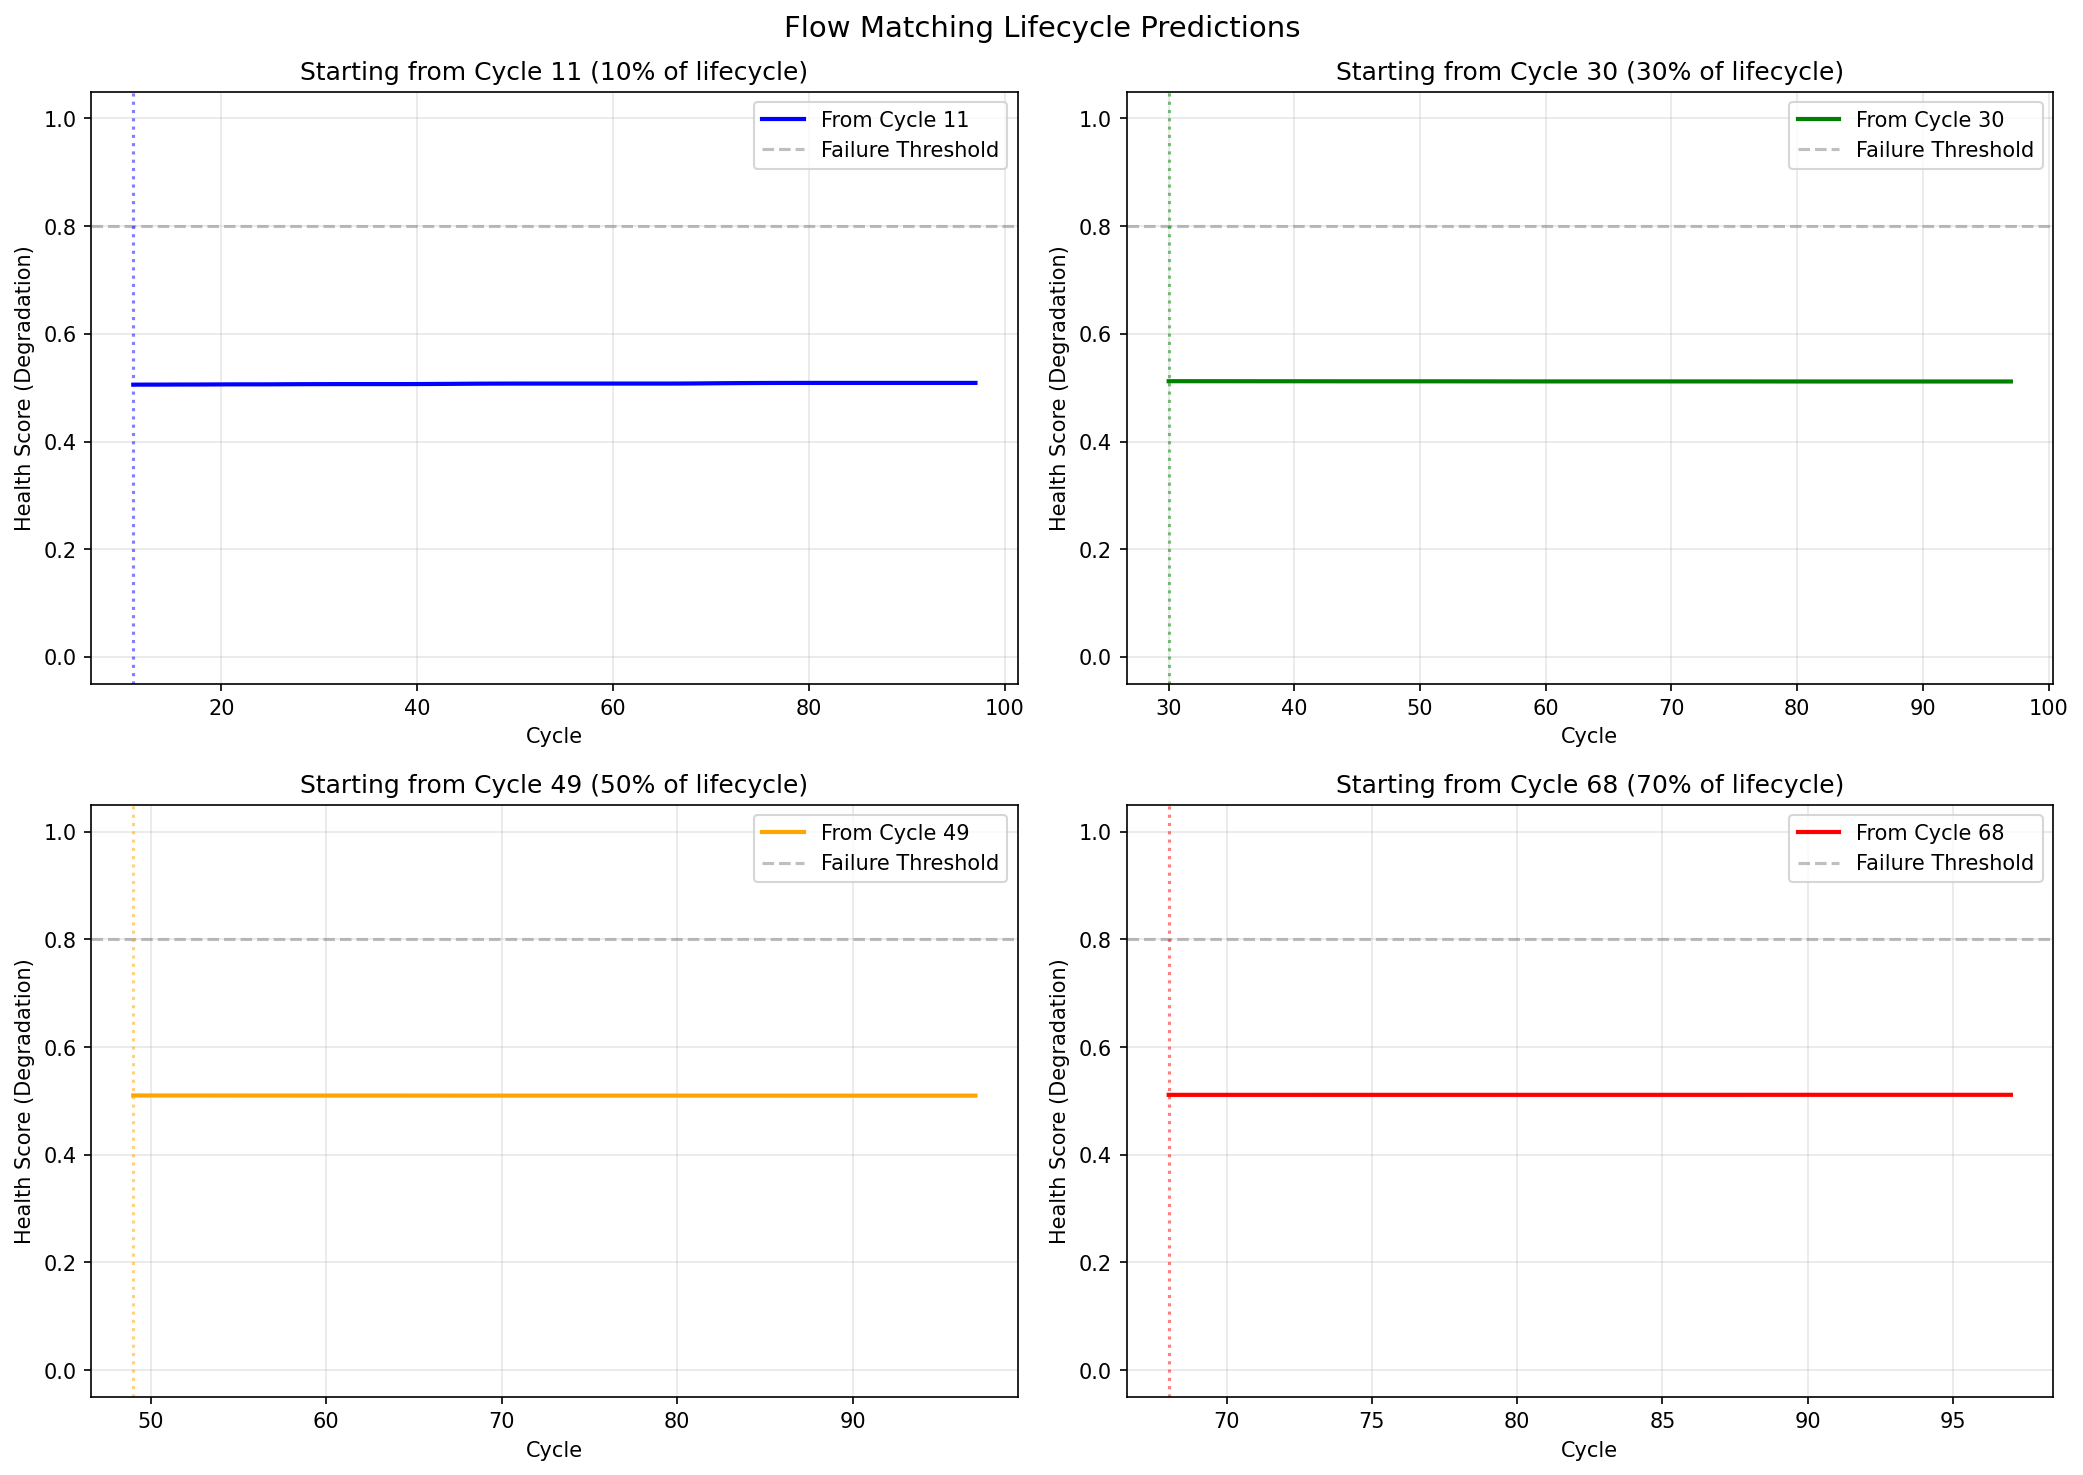
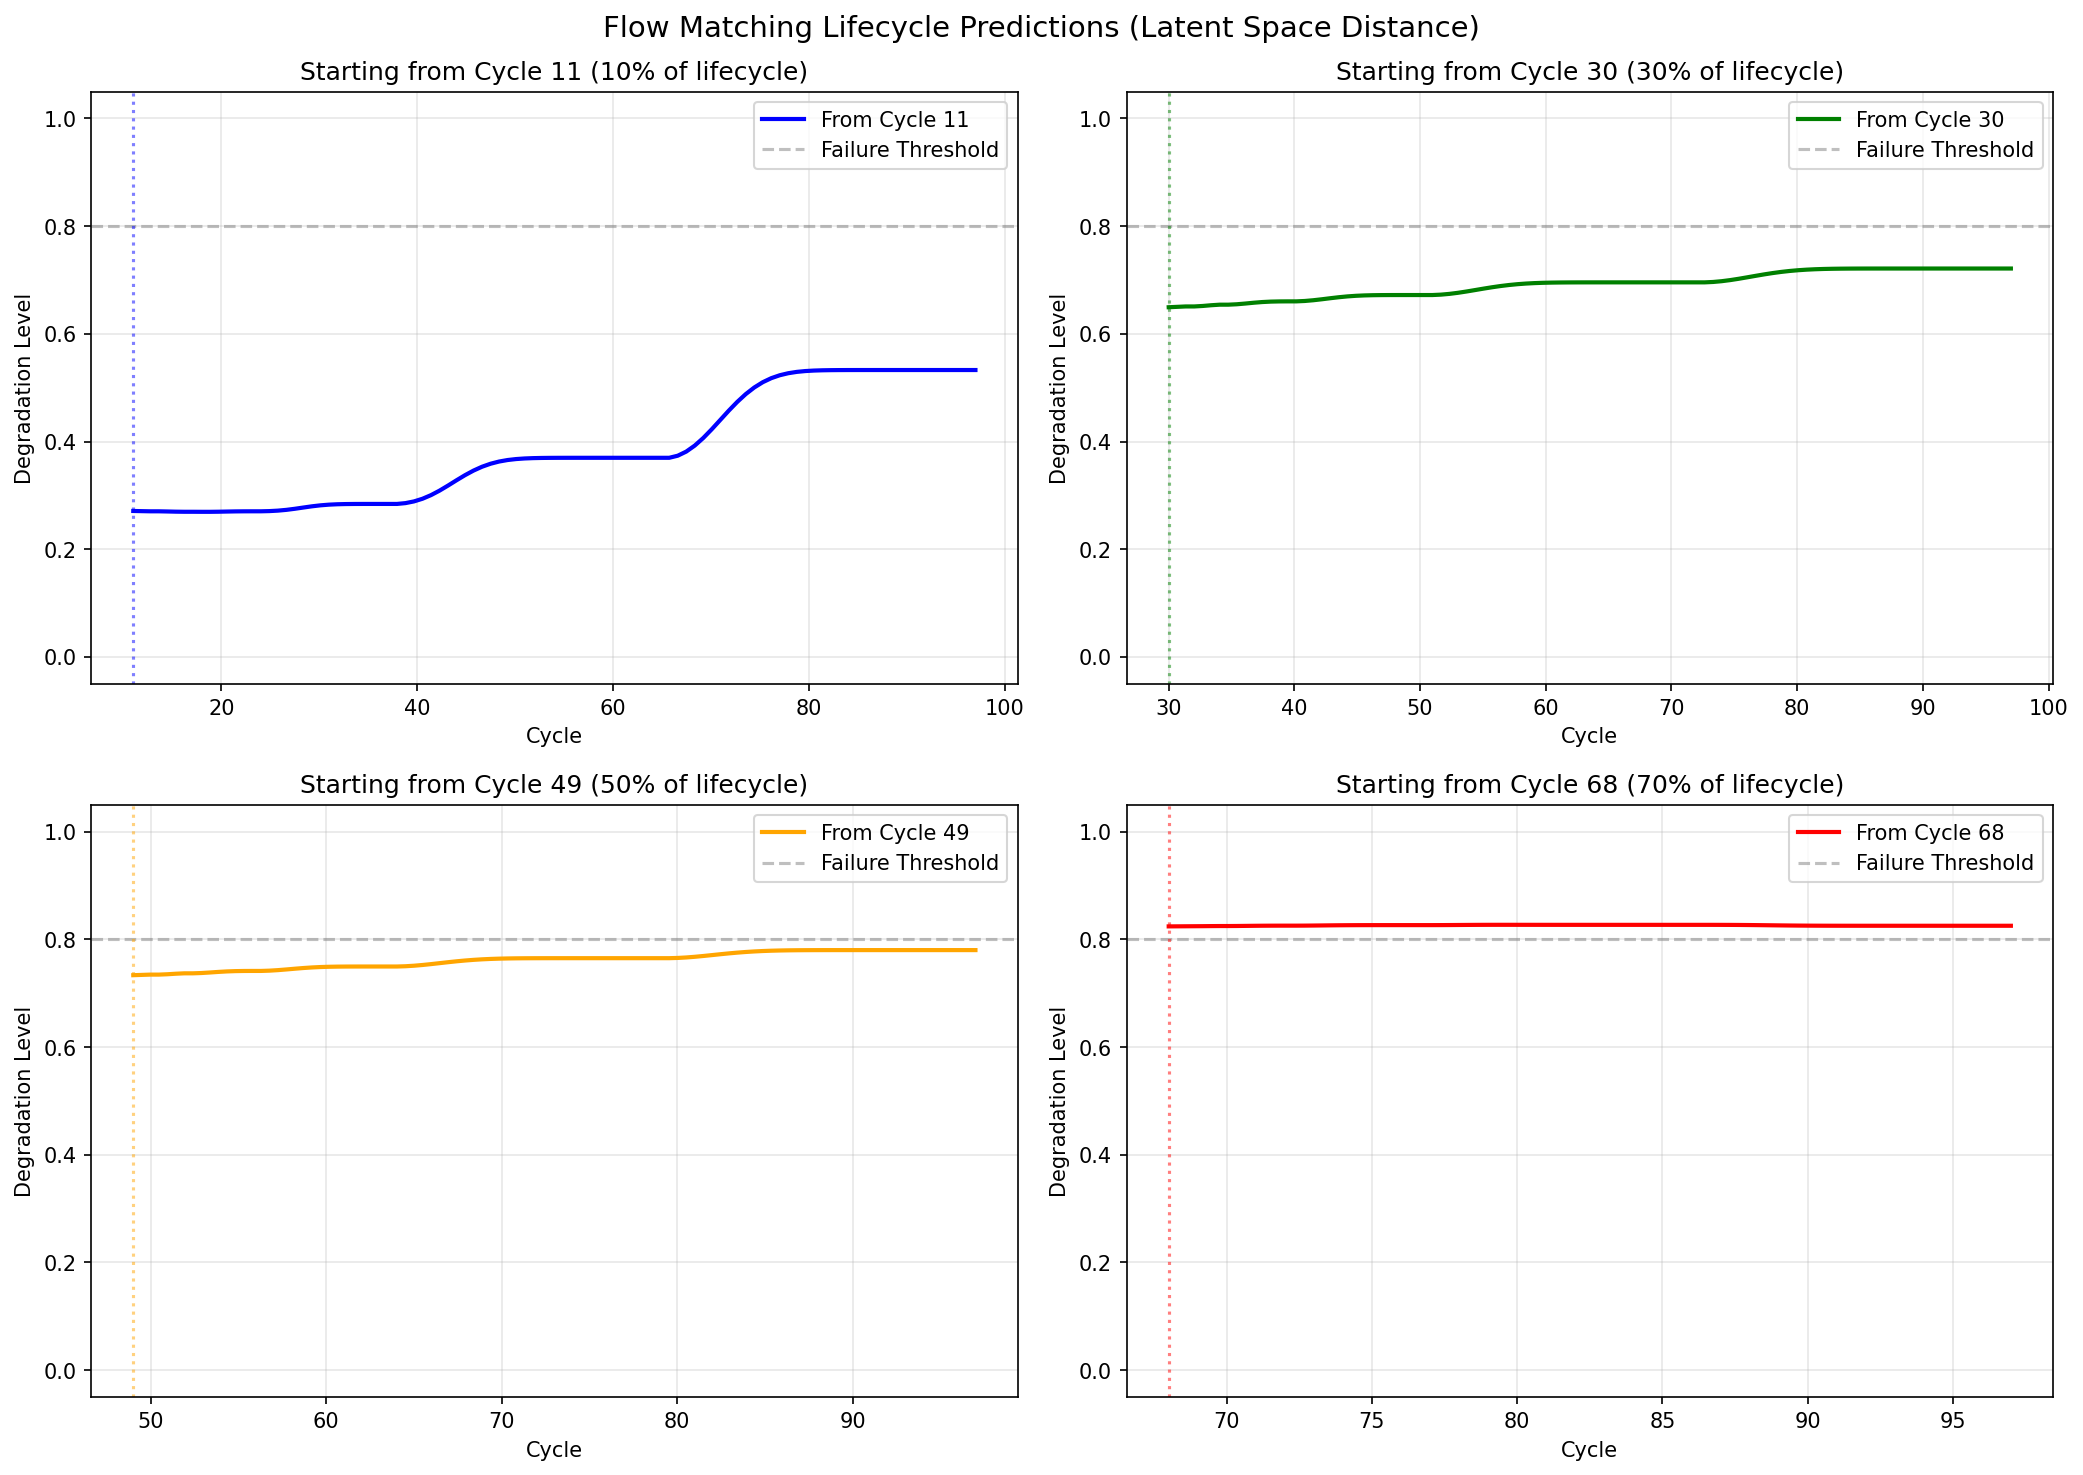
upd

diff --git a/scripts/validate_flow.py b/scripts/validate_flow.py
@@ -527,6 +527,7 @@ def generate_demo_prediction(model, latent_vectors, cycles, device='cuda'):
     生成演示预测图
     
     展示从不同初始 cycle 出发的预测轨迹
+    使用潜空间距离变化来可视化退化趋势（而不是未训练的 health_head）
     """
     logger.info("=" * 60)
     logger.info("生成演示预测图")
@@ -541,52 +542,164 @@ def generate_demo_prediction(model, latent_vectors, cycles, device='cuda'):
     fig, axes = plt.subplots(2, 2, figsize=(14, 10))
     
     max_cycle = cycles.max().item()
+    min_cycle = cycles.min().item()
+    total_cycles = max_cycle - min_cycle
+    
+    # 计算早期和晚期参考点
+    early_threshold = min_cycle + total_cycles * 0.1
+    late_threshold = min_cycle + total_cycles * 0.9
+    
+    early_mask = cycles <= early_threshold
+    late_mask = cycles >= late_threshold
+    
+    early_indices = torch.where(early_mask)[0]
+    late_indices = torch.where(late_mask)[0]
+    
+    if len(early_indices) == 0 or len(late_indices) == 0:
+        logger.warning("  没有足够的早期/晚期样本")
+        return
+    
+    # 计算参考点
+    early_center = latent_vectors[early_indices].mean(dim=0, keepdim=True).to(device)
+    late_center = latent_vectors[late_indices].mean(dim=0, keepdim=True).to(device)
     
     # 选择不同阶段的起点
     percentiles = [0.1, 0.3, 0.5, 0.7]
     colors = ['blue', 'green', 'orange', 'red']
     
+    # 计算早期到晚期的参考距离
+    ref_dist = torch.norm(early_center - late_center).item()
+    
     for ax_idx, (pct, color) in enumerate(zip(percentiles, colors)):
         ax = axes[ax_idx // 2, ax_idx % 2]
         
-        target_cycle = cycles.min().item() + (max_cycle - cycles.min().item()) * pct
+        target_cycle = min_cycle + total_cycles * pct
         idx = (torch.abs(cycles - target_cycle)).argmin().item()
         start_cycle = cycles[idx].item()
         
         z_0 = latent_vectors[idx:idx+1].to(device)
         
         # 预测轨迹
-        t_start = start_cycle / max_cycle
+        t_start = (start_cycle - min_cycle) / total_cycles
         t_span = torch.linspace(t_start, 1.0, 100, device=device)
-        trajectory = model.predict_trajectory(z_0, t_span)
         
-        # 计算健康评分
-        health_scores = []
+        with torch.no_grad():
+            trajectory = model.predict_trajectory(z_0, t_span)
+        
+        # 计算退化指标：基于到晚期中心的距离变化
+        # 退化程度 = (初始到晚期距离 - 当前到晚期距离) / 参考距离
+        degradation_scores = []
+        initial_dist_to_late = torch.norm(z_0 - late_center).item()
+        
         for z_t in trajectory:
-            score = model.health_head(z_t).squeeze().item()
-            health_scores.append(score)
+            dist_to_late = torch.norm(z_t - late_center).item()
+            dist_to_early = torch.norm(z_t - early_center).item()
+            
+            # 计算相对位置：0 = 接近早期, 1 = 接近晚期
+            # 使用距离比例
+            total_dist = dist_to_early + dist_to_late + 1e-6
+            degradation = dist_to_early / total_dist  # 越接近晚期，dist_to_early 越大
+            
+            degradation_scores.append(degradation)
         
-        predicted_cycles = t_span.cpu().numpy() * max_cycle
+        predicted_cycles = t_span.cpu().numpy() * total_cycles + min_cycle
         
-        ax.plot(predicted_cycles, health_scores, color=color, linewidth=2, 
+        ax.plot(predicted_cycles, degradation_scores, color=color, linewidth=2, 
                 label=f'From Cycle {int(start_cycle)}')
         ax.axhline(y=0.8, color='gray', linestyle='--', alpha=0.5, label='Failure Threshold')
         ax.axvline(x=start_cycle, color=color, linestyle=':', alpha=0.5)
         
         ax.set_xlabel('Cycle')
-        ax.set_ylabel('Health Score (Degradation)')
+        ax.set_ylabel('Degradation Level')
         ax.set_title(f'Starting from Cycle {int(start_cycle)} ({pct:.0%} of lifecycle)')
         ax.set_ylim(-0.05, 1.05)
         ax.legend()
         ax.grid(True, alpha=0.3)
     
-    plt.suptitle('Flow Matching Lifecycle Predictions', fontsize=14)
+    plt.suptitle('Flow Matching Lifecycle Predictions (Latent Space Distance)', fontsize=14)
     plt.tight_layout()
     
     save_path = Path('experiments/flow_matching/validation')
     save_path.mkdir(parents=True, exist_ok=True)
     plt.savefig(save_path / 'lifecycle_predictions.png', dpi=150, bbox_inches='tight')
     logger.info(f"  预测图已保存: {save_path / 'lifecycle_predictions.png'}")
+    plt.close()
+    
+    # 额外生成一个轨迹对比图
+    _generate_trajectory_comparison(model, latent_vectors, cycles, device, save_path)
+
+
+def _generate_trajectory_comparison(model, latent_vectors, cycles, device, save_path):
+    """生成轨迹对比图：真实 vs 预测"""
+    try:
+        import matplotlib.pyplot as plt
+        from sklearn.decomposition import PCA
+    except ImportError:
+        return
+    
+    # PCA 降维
+    pca = PCA(n_components=2)
+    latent_2d = pca.fit_transform(latent_vectors.cpu().numpy())
+    
+    fig, axes = plt.subplots(1, 2, figsize=(14, 6))
+    
+    max_cycle = cycles.max().item()
+    min_cycle = cycles.min().item()
+    total_cycles = max_cycle - min_cycle
+    
+    # 左图：真实潜空间分布
+    ax1 = axes[0]
+    scatter = ax1.scatter(latent_2d[:, 0], latent_2d[:, 1], c=cycles.numpy(), 
+                          cmap='viridis', alpha=0.6, s=20)
+    plt.colorbar(scatter, ax=ax1, label='Cycle')
+    ax1.set_xlabel('PC1')
+    ax1.set_ylabel('PC2')
+    ax1.set_title('True Latent Space Distribution')
+    ax1.grid(True, alpha=0.3)
+    
+    # 右图：预测轨迹
+    ax2 = axes[1]
+    ax2.scatter(latent_2d[:, 0], latent_2d[:, 1], c='lightgray', alpha=0.3, s=10, label='True samples')
+    
+    # 从几个起点预测轨迹
+    colors = ['red', 'blue', 'green', 'purple']
+    start_pcts = [0.1, 0.3, 0.5, 0.7]
+    
+    for start_pct, color in zip(start_pcts, colors):
+        target_cycle = min_cycle + total_cycles * start_pct
+        idx = (torch.abs(cycles - target_cycle)).argmin().item()
+        start_cycle = cycles[idx].item()
+        
+        z_0 = latent_vectors[idx:idx+1].to(device)
+        
+        t_start = (start_cycle - min_cycle) / total_cycles
+        t_span = torch.linspace(t_start, 1.0, 50, device=device)
+        
+        with torch.no_grad():
+            trajectory = model.predict_trajectory(z_0, t_span)
+        
+        # 转换到 2D
+        if isinstance(trajectory, torch.Tensor):
+            traj_np = trajectory.squeeze(1).cpu().numpy()
+        else:
+            traj_np = torch.stack(trajectory).squeeze(1).cpu().numpy()
+        traj_2d = pca.transform(traj_np)
+        
+        ax2.plot(traj_2d[:, 0], traj_2d[:, 1], color=color, linewidth=2, 
+                 label=f'Pred from Cycle {int(start_cycle)}')
+        ax2.scatter(traj_2d[0, 0], traj_2d[0, 1], color=color, s=100, marker='o', edgecolors='black')
+        ax2.scatter(traj_2d[-1, 0], traj_2d[-1, 1], color=color, s=100, marker='*', edgecolors='black')
+    
+    ax2.set_xlabel('PC1')
+    ax2.set_ylabel('PC2')
+    ax2.set_title('Predicted Trajectories in Latent Space')
+    ax2.legend(loc='upper right')
+    ax2.grid(True, alpha=0.3)
+    
+    plt.suptitle('Latent Space: True Distribution vs Predicted Trajectories', fontsize=14)
+    plt.tight_layout()
+    plt.savefig(save_path / 'trajectory_comparison.png', dpi=150, bbox_inches='tight')
+    logger.info(f"  轨迹对比图已保存: {save_path / 'trajectory_comparison.png'}")
     plt.close()
 
 
